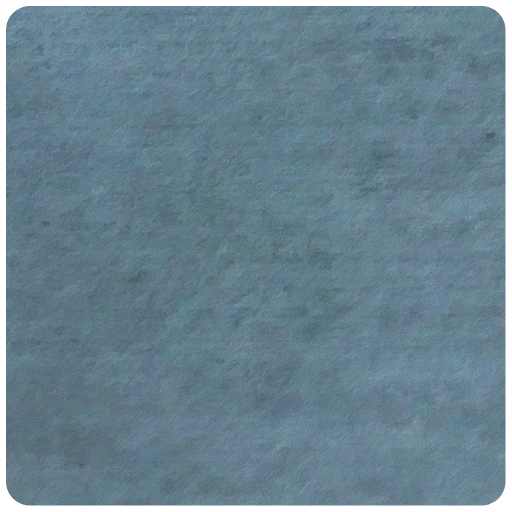
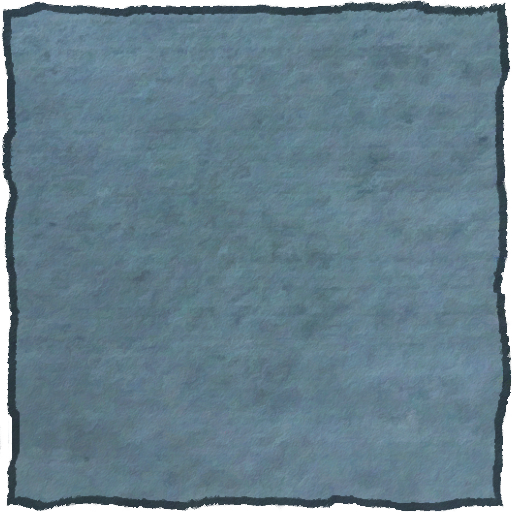
v16.1: swap in the torn-edge felt board

Changed region(s): [[0.0, 0.0, 1.0, 1.0], [0.75, 0.0625, 0.7812, 0.0938], [0.0625, 0.0938, 0.0938, 0.125]]

diff --git a/src/game/Game.ts b/src/game/Game.ts
@@ -1211,21 +1211,13 @@ export class Game {
 
   private drawBoardBackdrop() {
     const { ctx } = this;
-    const pad = 14;
+    const pad = 22;
     const x = this.gridX - pad;
     const y = this.gridY - pad;
     const size = GRID + pad * 2;
-    ctx.save();
-    ctx.beginPath();
-    ctx.roundRect(x, y, size, size, 18);
-    ctx.clip();
     if (this.boardImg.complete && this.boardImg.naturalWidth > 0) {
       ctx.drawImage(this.boardImg, x, y, size, size);
-    } else {
-      ctx.fillStyle = '#1e1030';
-      ctx.fill();
     }
-    ctx.restore();
   }
 
   // Inverse-rotate the mouse point into each card's local space, then AABB check.

diff --git a/index.html b/index.html
@@ -279,7 +279,7 @@
           </svg>
         </button>
         <p id="lobby-account" hidden></p>
-        <p id="lobby-version">v16.0</p>
+        <p id="lobby-version">v16.1</p>
       </div>
       <div id="game-screen" class="screen" style="position:relative;">
         <canvas id="game-canvas" width="680" height="700"></canvas>
